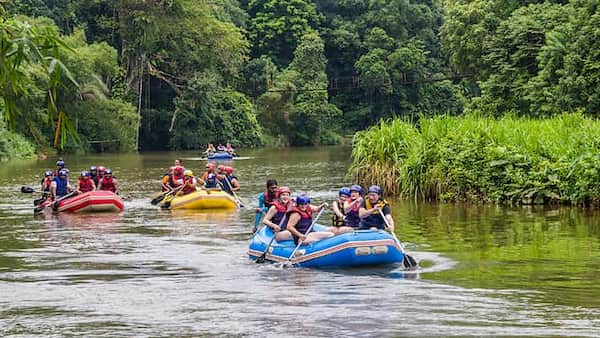
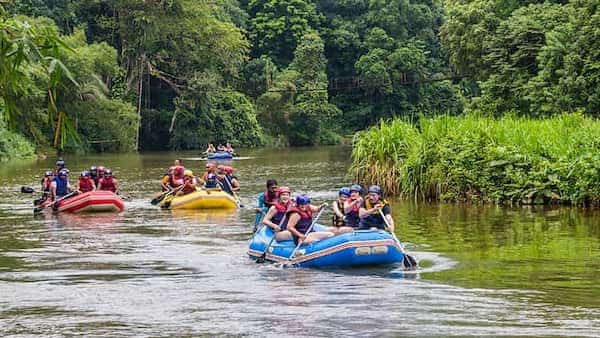
trips

diff --git a/wwr/trips.html b/wwr/trips.html
@@ -1,0 +1,199 @@
+<!DOCTYPE html>
+<html lang="en">
+
+<head>
+    <meta charset="UTF-8">
+    <meta name="viewport" content="width=device-width, initial-scale=1.0">
+    <title>Trips Page | SPLASH White Water Rapids</title>
+    <meta name="description"
+      content="This is the trips page, it contains information about our adventures, our equipment and the prices.">
+    <meta name="author" content="Joseph Thomas Rebelo La Rocque da Silva">
+    <link rel="stylesheet" href="styles/rafting.css">
+</head>
+
+<body>
+    <header>
+        <img src="images/white-water-rafting.png" alt="logo for white water rafting company">
+
+        <nav>
+            <ul class="navigation">
+                <li><a href="index.html">Home</a></li>
+
+                <li><a href="about.html">About Us</a></li>
+
+                <li><a href="trips.html">Trips</a></li>
+
+                <li><a href="contact.html">Contact Us</a></li>
+            </ul>
+        </nav>
+
+    </header>
+
+
+    <main>
+        <div class="heading-section">
+            <h1>SPLASH White Water Rapids Trips</h1>
+            <p>Learn more about the amazing trips offered by us and supported by our services!
+                Whether this is your first time whitewater rafting, or you've been doing this for
+                several years, we have trips prepared especially for you!</p>
+        </div>
+
+
+        <div class="trips">
+
+            <div class="trip-table">
+                <h2>Descent to Detroit</h2>
+                <img src="images/descent-to-detroit.jpg"
+                  alt="picture of the descent to detroit adventure">
+                <div class="trip-list">
+                    <ul>
+                        <li>2 Hour Long Trip</li>
+                        <li>Available June - September</li>
+                        <li>$100 - $200 USD Per Person</li>
+                        <li class="no-decoration">Made for Intermediate to Advanced rafters, this
+                            short trip will take us
+                            all the way down to a beautiful spot in the borders of Detroit!</li>
+                    </ul>
+                </div>
+            </div>
+
+
+            <div class="trip-table">
+                <h2>Down The Water Slide</h2>
+                <img src="images/down-the-water-slide.jpg"
+                  alt="picture of the down the water slide adventure">
+                <div class="trip-list">
+                    <ul>
+                        <li>3 Hour Long Trip</li>
+                        <li>Available April - October</li>
+                        <li>$50 - $100 USD Per Person</li>
+                        <li class="no-decoration">Made for Beginners, this
+                            adventure is perfect to take a short and calm trip with the whole
+                            family!
+                        </li>
+                    </ul>
+                </div>
+            </div>
+            <div class="trip-table">
+                <h2>Half Day Adventure</h2>
+                <img src="images/half-day-adventure.jpg"
+                  alt="picture of the half day adventure trip">
+                <div class="trip-list">
+                    <ul>
+                        <li>8 Hour Long Trip</li>
+                        <li>Available May - October</li>
+                        <li>$150 - $250 USD Per Person</li>
+                        <li class="no-decoration small-text">Made for Intermediate to Advanced
+                            rafters, we follow a long path taking several breaks in the way to rest
+                            and recuperate.
+                            Our final stop will be a beautiful waterfall!
+                        </li>
+                    </ul>
+                </div>
+            </div>
+            <div class="trip-table">
+                <h2>Radiant Forest</h2>
+                <img src="images/radiant-forest.jpg" alt="picture of the radiant forest adventure">
+                <div class="trip-list">
+                    <ul>
+
+                        <li>4 Hour Long Trip</li>
+                        <li>Available April - August</li>
+                        <li>$200 - $250 USD Per Person</li>
+                        <li class="no-decoration">Made for Intermediate rafters, this is for those
+                            that want to test their newfound skills and spend a few hours going down
+                            a mesmerizing forest!</li>
+                    </ul>
+                </div>
+            </div>
+            <div class="trip-table">
+                <h2>Rocky Rapids</h2>
+                <img src="images/rocky-rapids.jpg" alt="picture of the rocky rapids adventure">
+                <div class="trip-list">
+                    <ul>
+                        <li>7 Hour Long Trip</li>
+                        <li>Available June - August</li>
+                        <li>$250 - $300 USD Per Person</li>
+                        <li class="no-decoration">Made for Advanced rafters, this adventure follows
+                            a very rocky path and will test your abilities and endurance in white
+                            water rafting!
+                        </li>
+                    </ul>
+                </div>
+            </div>
+
+            <div class="trip-table">
+                <h2>Mountain Descent</h2>
+                <img src="images/mountain-descent.jpg"
+                  alt="picture of the mountain descent adventure">
+                <div class="trip-list">
+                    <ul>
+                        <li>10 Hour Long Trip</li>
+                        <li>Available June - September</li>
+                        <li>$300 - $400 USD Per Person</li>
+                        <li class="no-decoration small-text">Made for Advanced to Expert rafters,
+                            this is for
+                            those who want a long adrenaline rush after many months of monotonous
+                            city life, or those who want to experience the hardest challenge
+                            Michigan has to offer!
+                        </li>
+                    </ul>
+                </div>
+            </div>
+
+        </div>
+
+        <h2 class="trips-h2">Our Equipment</h2>
+
+        <div class="equipment">
+
+
+            <div class="equipment-pictures">
+                <img src="images/equipment-helmets.jpg" alt="picture of high quality helmets">
+                <img src="images/equipment-rafts.jpg" alt="picture of high quality rafts">
+                <img src="images/home-high-quality-equipment.jpg"
+                  alt="picture of high quality paddles">
+            </div>
+            <div class="equipment-description">
+
+
+                We know how it can feel to be a beginner going on your first raft ride, and
+                we
+                also know how it feels to be held back by your equipment, we have dealt with
+                these worries for you!</br>
+                </br>
+                To ensure you and your family's safety, we possess modern high-quality equipment
+                to take a weight off your shoulders and help you to only think about staying
+                afloat on those fun rapids!</br>
+                </p>
+            </div>
+
+        </div>
+
+        <div class="call-action">
+            <h2 class="trips-h2"> Ready To Start?
+                </br>
+                <a href="contact.html">Contact Us Today!</a>
+            </h2>
+        </div>
+
+    </main>
+
+
+    <footer>
+        <p>©2026 🌊 SPLASH White Water Rapids 🌊 Joseph Thomas Rebelo La Rocque da Silva </p>
+        <nav class="socialmedia">
+            <a href="https://facebook.com">
+                <img src="images/facebook.svg" alt="facebook logo" height="150" width="150">
+            </a>
+            <a href="https://linkedin.com">
+                <img src="images/linkedin.svg" alt="linkedin logo" height="150" width="150">
+            </a>
+            <a href="https://instagram.com">
+                <img src="images/instagram.svg" alt="instagram logo" height="150" width="150">
+            </a>
+        </nav>
+    </footer>
+</body>
+
+</html>

diff --git a/wwr/styles/rafting.css b/wwr/styles/rafting.css
@@ -395,3 +395,96 @@ input[type="radio"] {
 .home-offerings figcaption {
     font-size: large;
 }
+
+.heading-section {
+    text-align: center;
+    font-weight: bold;
+}
+
+.trips {
+    display: grid;
+    grid-template-columns: 1fr 1fr;
+    grid-template-rows: 1fr 1fr 1fr;
+    place-items: center;
+}
+
+.trips h2 {
+    padding: 5px;
+}
+
+.trip-table {
+    display: flex;
+    flex-direction: column;
+    width: 260px;
+    justify-content: center;
+
+}
+
+.trip-list {
+    background-color: rgba(135, 206, 235, 0.2);
+    border-radius: 2px;
+    padding: 20px;
+    font-weight: bold;
+    height: 200px;
+    border: 2px solid skyblue;
+}
+
+.trip-table img {
+    border-radius: 5px;
+    width: 260px;
+    border: 1px solid skyblue;
+}
+
+.trips-h2 {
+    padding-top: 20px;
+    padding-bottom: 10px;
+}
+
+.equipment {
+    display: grid;
+    grid-template-rows: 1fr 1fr;
+    max-height: 290px;
+}
+
+.equipment-pictures {
+    display: flex;
+    flex-direction: row;
+    justify-content: center;
+    align-items: center;
+}
+
+.equipment-pictures img {
+    width: 250px;
+    border: 2px solid skyblue;
+    border-radius: 5px;
+    margin: 10px;
+    box-shadow: 3px 5px rgb(0 0 0 / 0.2);
+}
+
+.equipment-description {
+    padding: 5px;
+    text-align: center;
+}
+
+.call-action a {
+    display: inline-block;
+    padding: 10px 20px;
+    margin: 10px;
+    background-color: navy;
+    color: white;
+    text-decoration: none;
+    border-radius: 5px;
+    font-family: sans-serif;
+    text-align: center;
+    font-size: 1.2rem;
+}
+
+.no-decoration {
+    padding-top: 4px;
+    list-style: none;
+    text-align: center;
+}
+
+.small-text {
+    font-size: 0.86rem;
+}
